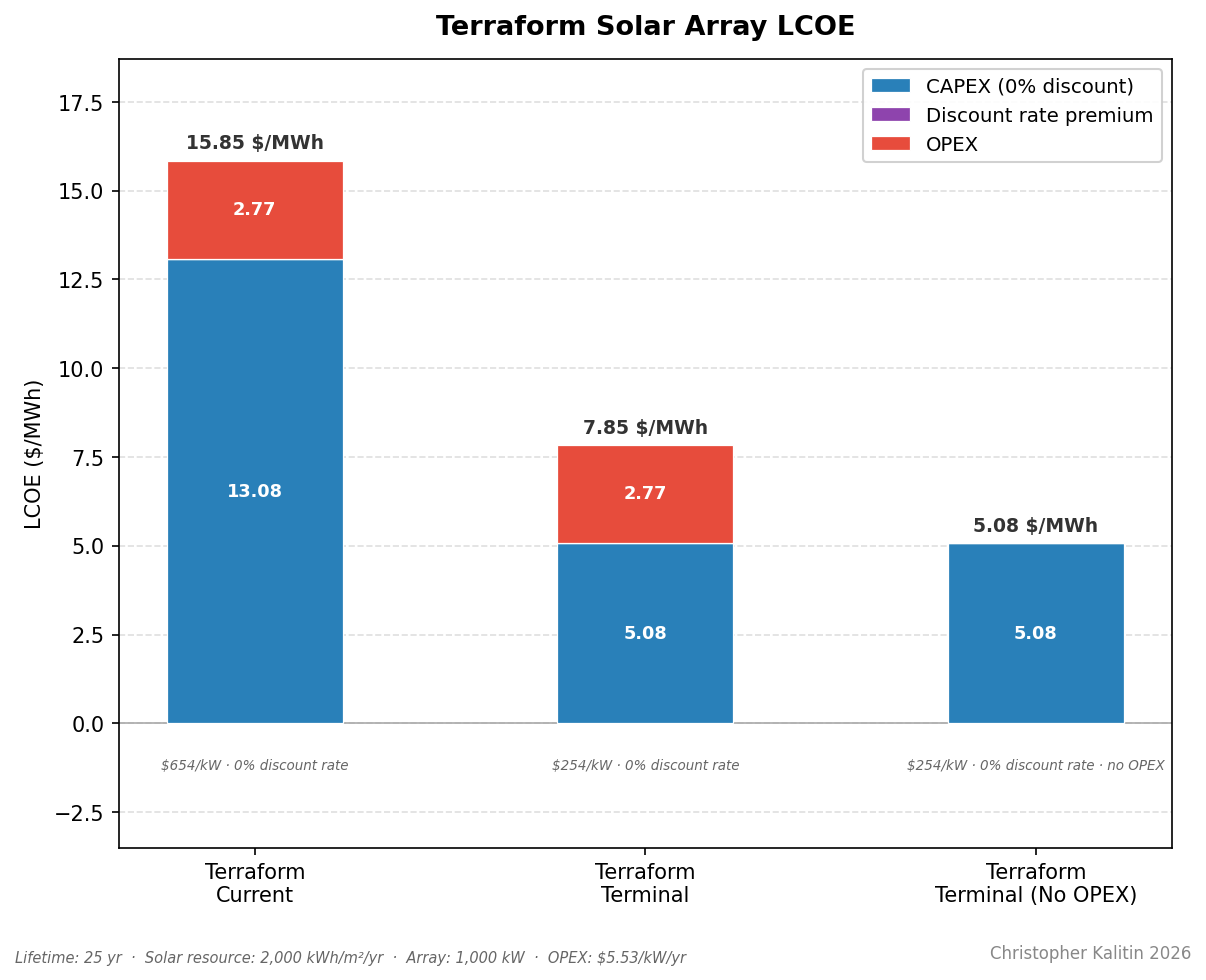
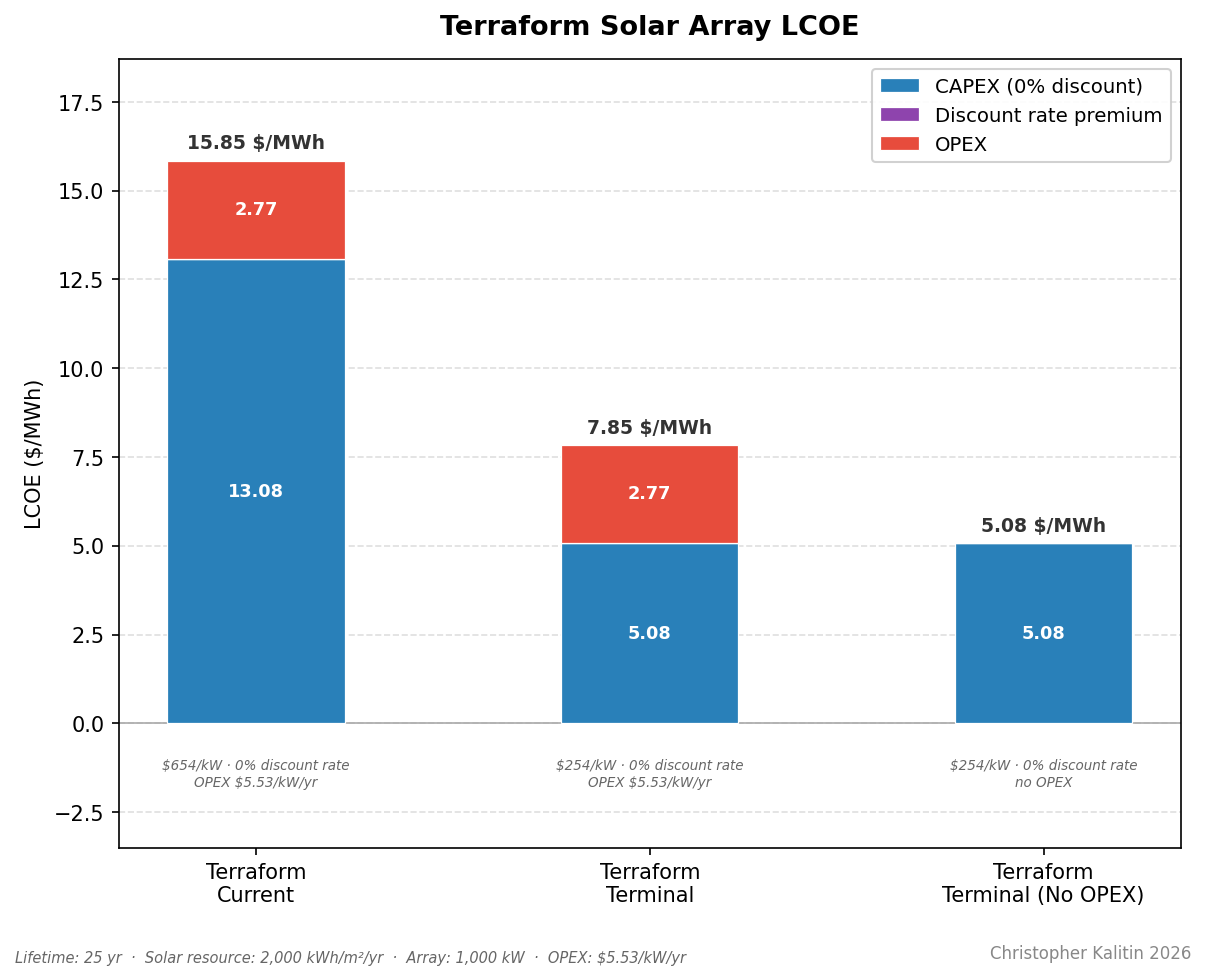
asdf

diff --git a/Terraformer-Economics/solar/solar_lcoe.py b/Terraformer-Economics/solar/solar_lcoe.py
@@ -11,6 +11,7 @@ YEARS          = 25
 SOLAR_RESOURCE = 2000     # kWh/m²/yr
 ARRAY_SIZE_KW  = 1000     # kW
 OPEX_PER_KW    = 5.53     # $/kW/year
+OPEX_UTILITY   = 18.25    # $/kW/year  (standard utility O&M, higher due to labour/insurance)
 
 # Terraform array costs
 ARRAY_COST_CURRENT  = 654   # $/kW
@@ -29,37 +30,39 @@ def crf(discount_rate):
 
 UTILITY_TRACKER_BONUS = 1.20   # single-axis tracking yields +20% energy
 
-def lcoe_parts(array_cost_kw, discount_rate=0.0, opex=True, energy_multiplier=1.0):
+def lcoe_parts(array_cost_kw, discount_rate=0.0, opex=True, energy_multiplier=1.0, opex_per_kw=None):
     """Return (base_capex, discount_premium, opex) in $/MWh.
     base_capex       = CAPEX at 0% discount
     discount_premium = extra cost from applying the real discount rate
     energy_multiplier scales annual energy (e.g. 1.2 for tracked arrays)
+    opex_per_kw      = override OPEX_PER_KW if provided
     """
+    _opex_rate    = opex_per_kw if opex_per_kw is not None else OPEX_PER_KW
     scale         = ARRAY_SIZE_KW / (annual_energy * energy_multiplier) * 1e3
     base_capex    = array_cost_kw * crf(0.0)           * scale
     total_capex   = array_cost_kw * crf(discount_rate) * scale
     discount_prem = total_capex - base_capex
-    opex_         = OPEX_PER_KW * scale if opex else 0.0
+    opex_         = _opex_rate * scale if opex else 0.0
     return base_capex, discount_prem, opex_
 
 # ─── Cases: (label, base_capex, discount_premium, opex, note) ────────────────
 cases = [
     ('Standard Utility\nSolar',
      *lcoe_parts(ARRAY_COST_UTILITY, DISCOUNT_UTILITY, opex=True,
-                 energy_multiplier=UTILITY_TRACKER_BONUS),
-     f'${ARRAY_COST_UTILITY}/kW · {DISCOUNT_UTILITY:.0%} discount\nsingle-axis tracked +20% energy'),
+                 energy_multiplier=UTILITY_TRACKER_BONUS, opex_per_kw=OPEX_UTILITY),
+     f'\${ARRAY_COST_UTILITY}/kW · {DISCOUNT_UTILITY:.0%} discount · OPEX ${OPEX_UTILITY}/kW/yr\nsingle-axis tracked +20% energy'),
 
     ('Terraform\nCurrent',
      *lcoe_parts(ARRAY_COST_CURRENT, 0.0, opex=True),
-     f'${ARRAY_COST_CURRENT}/kW · 0% discount rate'),
+     f'${ARRAY_COST_CURRENT}/kW · 0% discount rate\nOPEX ${OPEX_PER_KW}/kW/yr'),
 
     ('Terraform\nTerminal',
      *lcoe_parts(ARRAY_COST_TERMINAL, 0.0, opex=True),
-     f'${ARRAY_COST_TERMINAL}/kW · 0% discount rate'),
+     f'${ARRAY_COST_TERMINAL}/kW · 0% discount rate\nOPEX ${OPEX_PER_KW}/kW/yr'),
 
     ('Terraform\nTerminal (No OPEX)',
      *lcoe_parts(ARRAY_COST_TERMINAL, 0.0, opex=False),
-     f'${ARRAY_COST_TERMINAL}/kW · 0% discount rate · no OPEX'),
+     f'${ARRAY_COST_TERMINAL}/kW · 0% discount rate\nno OPEX'),
 ]
 
 labels        = [c[0] for c in cases]
